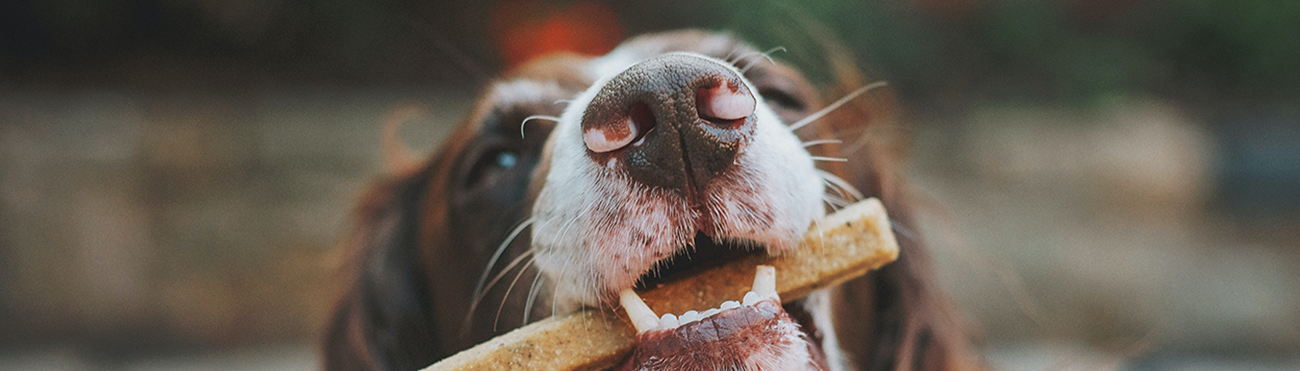
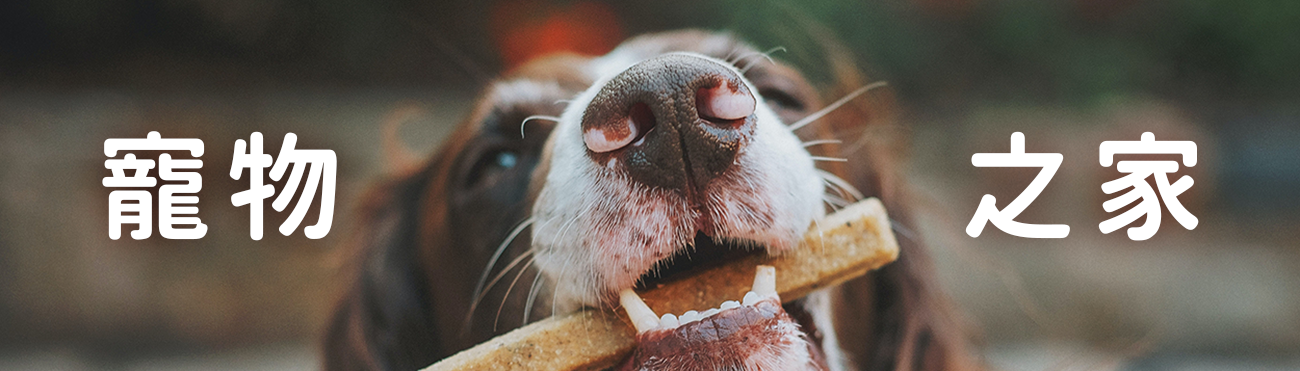
BN-layout 圖片修正

Changed region(s): [[0.0615, 0.3558, 0.2769, 0.6523], [0.7385, 0.3261, 0.9231, 0.6819]]

diff --git a/cart.html b/cart.html
@@ -69,13 +69,13 @@
 
                     <div class="carousel-inner">
                         <div class="carousel-item active">
-                            <img src="pic/banner1_layout.png" class="d-block w-100" alt="banner">
+                            <img src="pic/banner1_layout_s.png" class="d-block w-100" alt="banner">
                         </div>
                         <div class="carousel-item">
-                            <img src="pic/banner2_layout.png" class="d-block w-100" alt="banner2">
+                            <img src="pic/banner2_layout_s.png" class="d-block w-100" alt="banner2">
                         </div>
                         <div class="carousel-item">
-                            <img src="pic/banner3_layout.png" class="d-block w-100" alt="banner3">
+                            <img src="pic/banner3_layout_s.png" class="d-block w-100" alt="banner3">
                       </div>
                     </div>
 

diff --git a/layout.html b/layout.html
@@ -69,13 +69,13 @@
 
                     <div class="carousel-inner">
                         <div class="carousel-item active">
-                            <img src="pic/banner1_layout.png" class="d-block w-100" alt="banner">
+                            <img src="pic/banner1_layout_s.png" class="d-block w-100" alt="banner">
                         </div>
                         <div class="carousel-item">
-                            <img src="pic/banner2_layout.png" class="d-block w-100" alt="banner2">
+                            <img src="pic/banner2_layout_s.png" class="d-block w-100" alt="banner2">
                         </div>
                         <div class="carousel-item">
-                            <img src="pic/banner3_layout.png" class="d-block w-100" alt="banner3">
+                            <img src="pic/banner3_layout_s.png" class="d-block w-100" alt="banner3">
                       </div>
                     </div>
 
